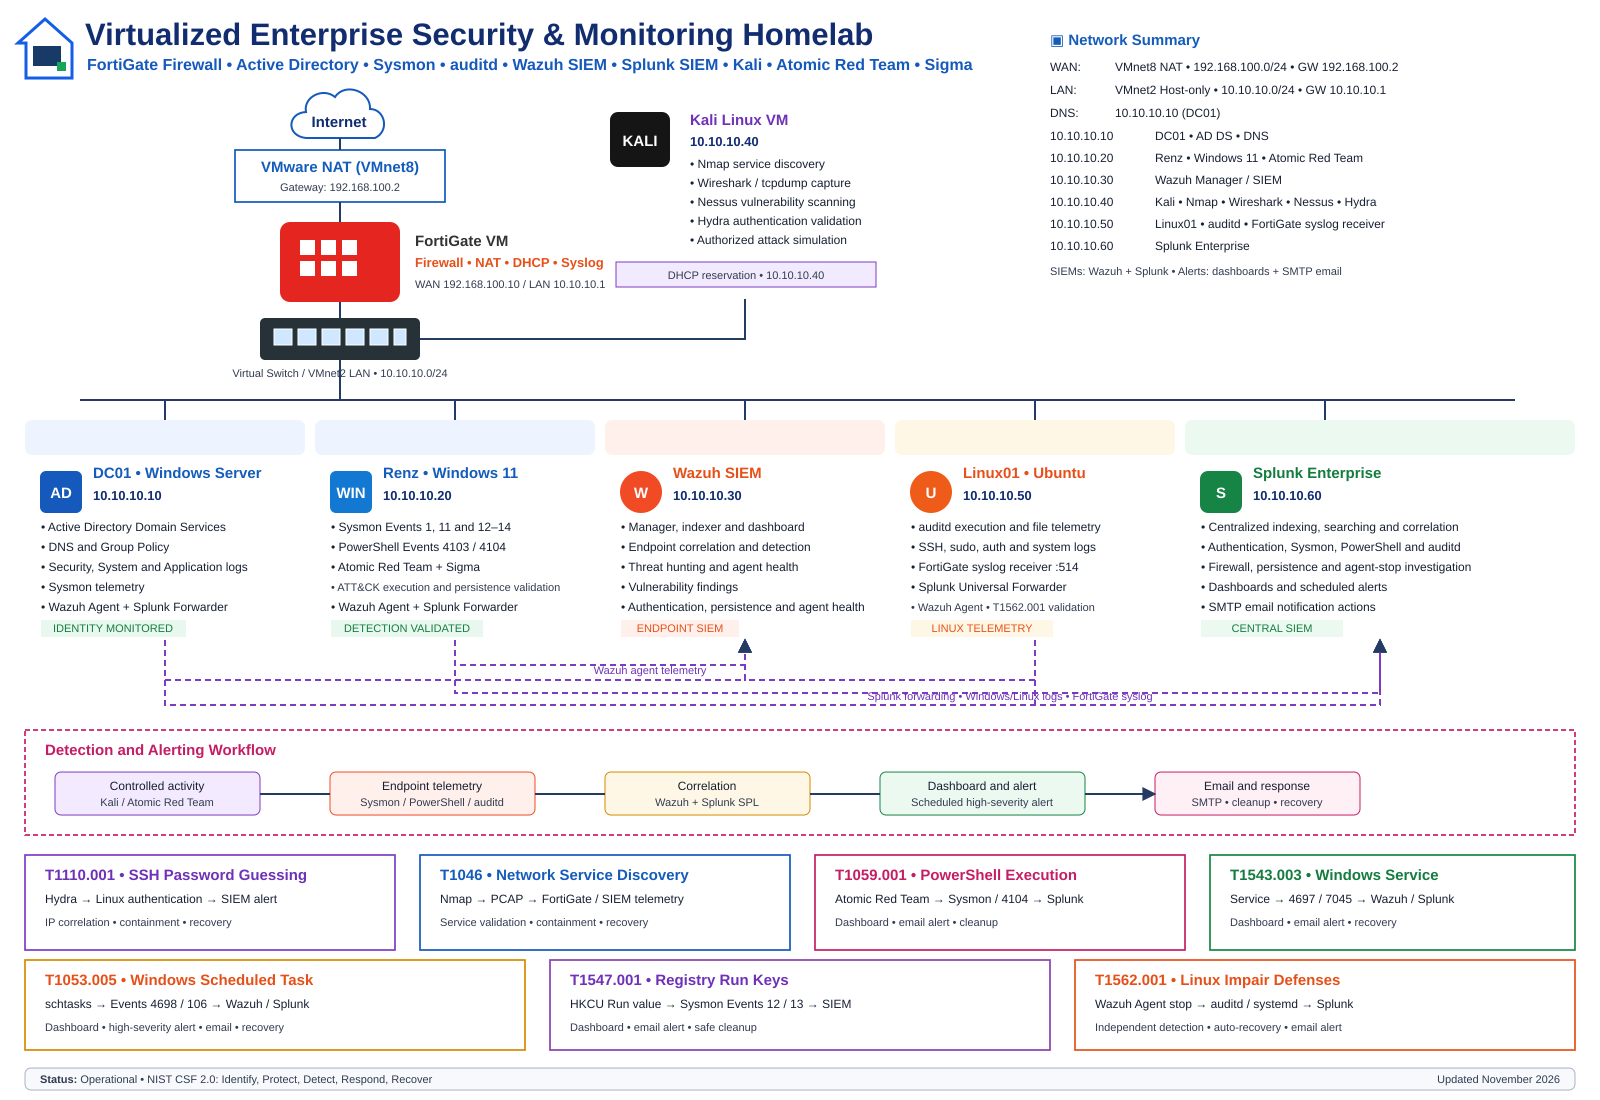
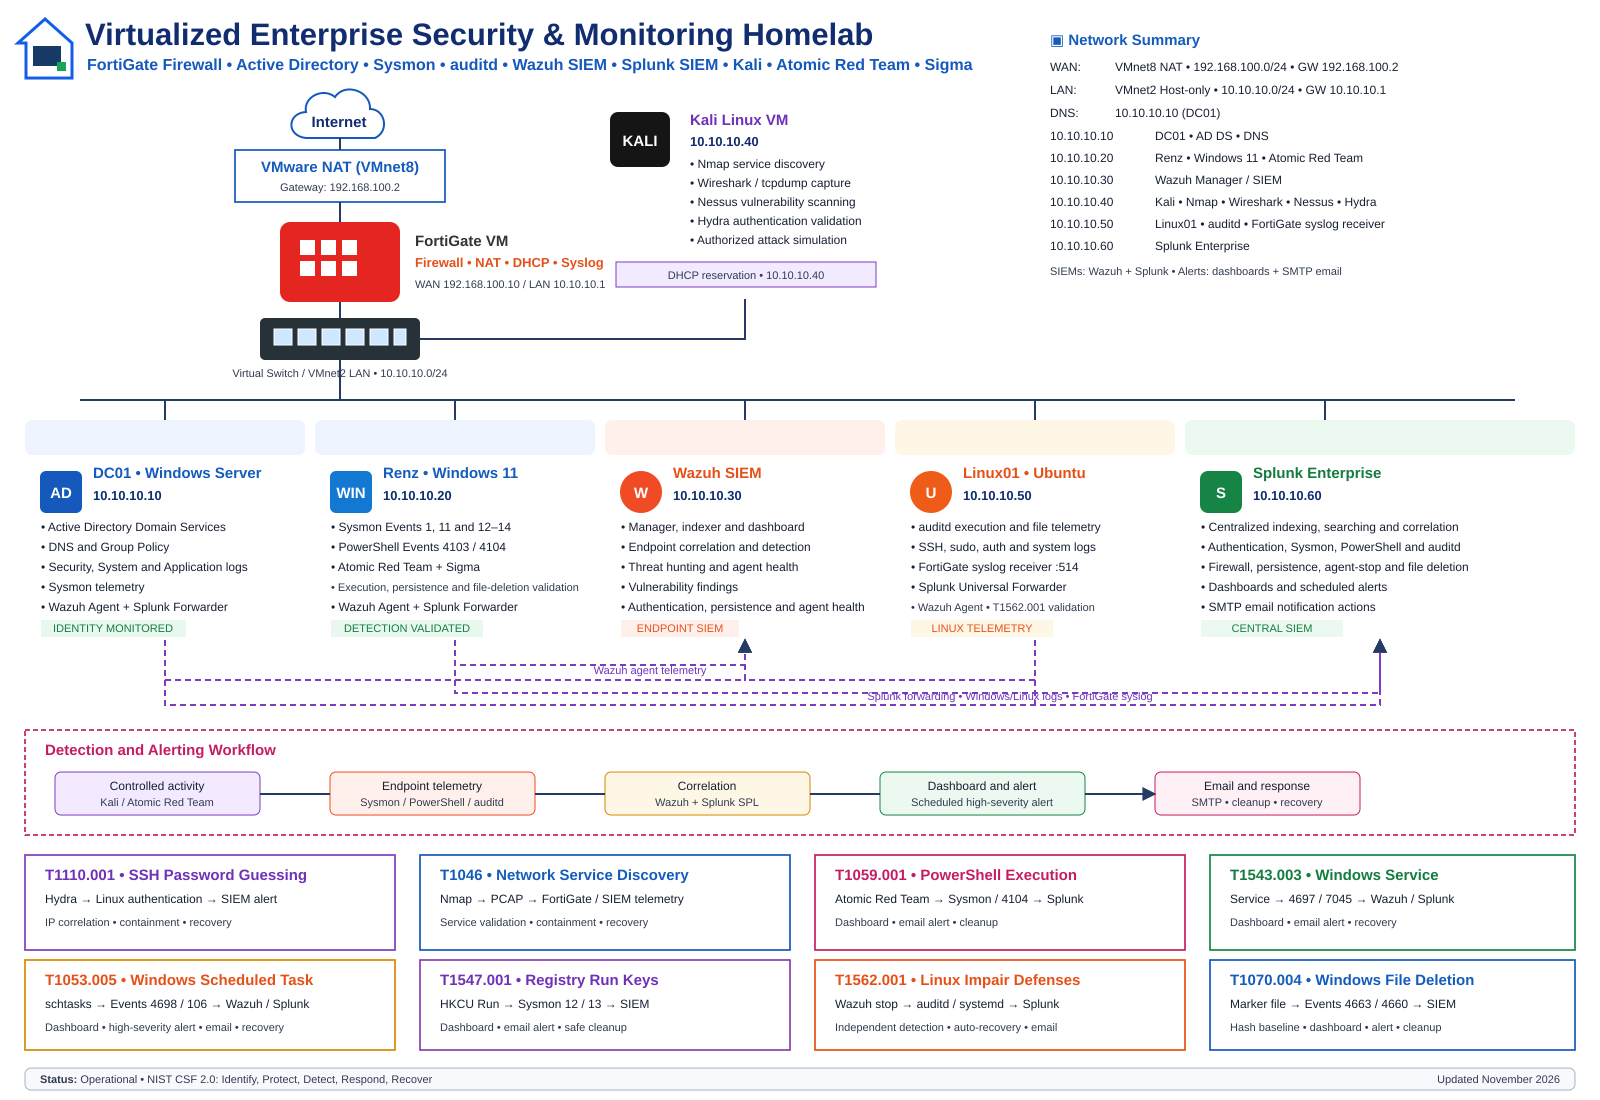
Document T1070.004 Windows file deletion validation

Changed region(s): [[0.25, 0.8655, 0.9375, 0.9582], [0.2188, 0.5255, 0.3438, 0.5564], [0.8438, 0.4945, 0.9062, 0.5255]]

diff --git a/tests/T1070-004-windows-file-deletion/NIST-MITRE-Windows-File-Deletion.md b/tests/T1070-004-windows-file-deletion/NIST-MITRE-Windows-File-Deletion.md
@@ -1,0 +1,120 @@
+# NIST–MITRE Windows File Deletion Validation
+
+## Exercise summary
+
+This authorized homelab exercise validated **MITRE ATT&CK T1070.004 — Indicator Removal: File Deletion** on the Windows 11 endpoint `Renz` (`10.10.10.20`). A harmless marker file was created in a dedicated lab directory, hashed with SHA-256, observed through Sysmon Event `11`, and then deleted in a controlled manner. Windows Security Events `4663` and `4660` provided deletion evidence, which was investigated in Wazuh and correlated in Splunk. A dashboard panel, scheduled high-severity alert and SMTP email notification completed the detection workflow.
+
+## Scope and authorization
+
+| Item | Value |
+|---|---|
+| Environment | Private VMware homelab |
+| Endpoint | Renz / Windows 11 / `10.10.10.20` |
+| Wazuh Manager | `10.10.10.30` |
+| Splunk Enterprise | `10.10.10.60` |
+| Technique | `T1070.004` — File Deletion |
+| Test object | `C:\Lab-T1070\T1070_004_marker.txt` |
+| Safety control | Dedicated folder, exact path, no wildcards and scoped audit SACL |
+
+Only a harmless marker file on an authorized virtual machine was used. No operating-system, application or user data was deleted.
+
+## Objectives
+
+1. Establish Windows and SIEM telemetry baselines.
+2. Preserve the existing Sysmon configuration when FileDelete rules are unavailable.
+3. Configure deletion auditing only for a dedicated lab folder.
+4. Record file creation, integrity and deletion evidence.
+5. Correlate the activity in Wazuh and Splunk.
+6. Trigger a dashboard, scheduled alert and email notification.
+7. Remove temporary test artifacts and validate endpoint recovery.
+
+## NIST Cybersecurity Framework 2.0 mapping
+
+| Function | Exercise activity |
+|---|---|
+| Identify | Documented the endpoint, monitored object, accounts, processes and telemetry sources. |
+| Protect | Used an isolated marker file, exact paths, a scoped SACL and a SHA-256 baseline. |
+| Detect | Correlated Sysmon Event `11` with Security Events `4663`/`4660` in Wazuh and Splunk. |
+| Respond | Triggered a high-severity Splunk alert and reviewed the account, process, object and access mask. |
+| Recover | Removed the test SACL and folder and verified monitoring-service health. |
+
+## Data sources
+
+- Windows Security log and Advanced Audit Policy
+- Sysmon Operational log
+- PowerShell Operational log
+- Wazuh Agent telemetry and Threat Hunting
+- Splunk Universal Forwarder and Splunk Enterprise
+
+## Procedure
+
+### 1. Establish baselines
+
+The operator verified the endpoint identity, address, monitoring services, Windows event channels and recent Sysmon telemetry in Splunk.
+
+### 2. Select the deletion data source
+
+The active Sysmon configuration did not contain `FileDelete` or `FileDeleteDetected` rules, and the original XML file was not retained. Rather than replace the working Sysmon configuration, Windows native Object Access auditing was used. File System auditing was enabled and a successful-deletion SACL was applied only to `C:\Lab-T1070`.
+
+### 3. Create and hash the marker
+
+The harmless file `T1070_004_marker.txt` was created with controlled text. Its metadata and SHA-256 hash were recorded before deletion. Sysmon Event `11` confirmed file creation.
+
+### 4. Perform the controlled deletion
+
+The marker was deleted using an exact literal path:
+
+```powershell
+Remove-Item -LiteralPath "C:\Lab-T1070\T1070_004_marker.txt" -Force
+```
+
+`Test-Path` returned `False`, confirming the object no longer existed.
+
+### 5. Validate local telemetry
+
+Security Event `4663` associated the marker path with the requesting account, PowerShell process and DELETE access. Related Event `4660` confirmed object-deletion activity but did not necessarily retain the filename.
+
+### 6. Investigate in Wazuh and Splunk
+
+Wazuh Threat Hunting was searched for Events `4663`/`4660`, the marker filename and access mask `0x10000`. Splunk extracted the user, process, object name, access list and access mask and mapped the result to `T1070.004`.
+
+### 7. Dashboard and alert
+
+A Splunk table panel displayed the deletion details. A scheduled alert ran every minute over a five-minute window, triggered on matching Event `4663` results, recorded the event in Triggered Alerts and sent a high-priority email notification.
+
+### 8. Cleanup and recovery
+
+The folder-specific SACL and test directory were removed. The global audit policy was left enabled to avoid overriding another security policy. Sysmon, Wazuh and the Splunk Universal Forwarder were verified as running.
+
+## Results
+
+| Control | Result |
+|---|---|
+| Controlled marker-file creation | Passed |
+| SHA-256 baseline | Passed |
+| Sysmon Event `11` creation telemetry | Passed |
+| Security Event `4663` deletion access | Passed |
+| Related Security Event `4660` review | Passed |
+| Splunk detection and dashboard | Passed |
+| Wazuh investigation | Completed; visibility depends on alert/archive indexing |
+| Scheduled alert and email | Passed |
+| Scoped cleanup and service recovery | Passed |
+
+## Key findings
+
+- Sysmon FileDelete telemetry should not be enabled by replacing an unknown working configuration; Windows Object Access auditing provided a safe alternative.
+- Event `4663` is the strongest filename-level evidence because it includes the object, account, process and DELETE access.
+- Event `4660` confirms deletion but normally requires correlation because it may omit the object name.
+- The access mask `0x10000` represents DELETE permission.
+- Wazuh results may require `wazuh-archives-*` when an event is collected but not promoted into `wazuh-alerts-*`.
+
+## Evidence
+
+The `screenshots/README.md` file defines the 18-image evidence sequence. The image files should be sanitized and uploaded into the same directory.
+
+## References
+
+- [MITRE ATT&CK T1070.004 — File Deletion](https://attack.mitre.org/techniques/T1070/004/)
+- [Microsoft Event 4663](https://learn.microsoft.com/en-us/windows/security/threat-protection/auditing/event-4663)
+- [Microsoft Event 4660](https://learn.microsoft.com/en-us/windows/security/threat-protection/auditing/event-4660)
+

diff --git a/README.md b/README.md
@@ -12,7 +12,7 @@ The environment simulates SOC monitoring, centralized telemetry, firewall admini
 |---|---:|---|
 | FortiGate VM | `10.10.10.1` | LAN gateway, DHCP, firewall, NAT and syslog source |
 | DC01 | `10.10.10.10` | Windows Server, AD DS, DNS, Sysmon, Wazuh agent and Splunk Universal Forwarder |
-| Renz | `10.10.10.20` | Windows 11 endpoint, Sysmon registry/process telemetry, PowerShell and Task Scheduler logging, Atomic Red Team, Sigma and SIEM agents |
+| Renz | `10.10.10.20` | Windows 11 endpoint, Sysmon registry/process telemetry, PowerShell, Task Scheduler and scoped file-system auditing, Atomic Red Team, Sigma and SIEM agents |
 | Wazuh | `10.10.10.30` | Manager, indexer, dashboard, correlation and endpoint alerting |
 | Kali Linux | `10.10.10.40` | Nmap, Wireshark, Nessus, Hydra and validation tooling |
 | Linux01 | `10.10.10.50` | Ubuntu telemetry host, auditd, FortiGate syslog receiver, Wazuh agent, Splunk Universal Forwarder and controlled agent-health validation |
@@ -55,6 +55,7 @@ The environment simulates SOC monitoring, centralized telemetry, firewall admini
 - Windows service-installation monitoring
 - Windows scheduled-task creation and deletion monitoring
 - Windows Registry Run-key persistence monitoring
+- Windows file creation and deletion monitoring through Sysmon Event `11` and Security Events `4663`/`4660`
 - Linux sudo, SSH, execution and file-deletion activity
 - Linux security-agent interruption and recovery monitoring
 - FortiGate denied and local-in traffic analysis
@@ -71,6 +72,7 @@ The environment simulates SOC monitoring, centralized telemetry, firewall admini
 - Validated scheduled-task activity through Security Events `4698`/`4699`, Task Scheduler Events `106`/`141` and Sysmon process creation
 - Validated Registry Run-key persistence through Sysmon Events `12` and `13`, Wazuh threat hunting and Splunk correlation
 - Validated Linux defense impairment by stopping the Wazuh Agent while auditd and Splunk remained active, then verifying automated recovery
+- Validated controlled Windows file deletion using a SHA-256 baseline, scoped Object Access auditing, Security Events `4663`/`4660`, Wazuh review and Splunk correlation
 - Built Splunk investigations, dashboards, scheduled alerts and email notifications
 - Documented cleanup, containment, recovery and lessons learned
 
@@ -85,6 +87,7 @@ The environment simulates SOC monitoring, centralized telemetry, firewall admini
 | [Windows Scheduled Task](tests/T1053-005-windows-scheduled-task/NIST-MITRE-Windows-Scheduled-Task.md) | `T1053.005` | Controlled task creation, Events 4698/106, Sysmon, Wazuh, Splunk dashboard, high-severity alert, email and recovery |
 | [Registry Run Keys](tests/T1547-001-registry-run-keys/NIST-MITRE-Registry-Run-Keys.md) | `T1547.001` | Controlled HKCU Run-value creation, Sysmon Events 12/13, Wazuh, Splunk dashboard, high-severity alert, email and recovery |
 | [Linux Impair Defenses](tests/T1562-001-impair-defenses/NIST-MITRE-Linux-Impair-Defenses.md) | `T1562.001` | Controlled Wazuh Agent interruption, systemd and auditd evidence, independent Splunk detection, alert, email and recovery |
+| [Windows File Deletion](tests/T1070-004-windows-file-deletion/NIST-MITRE-Windows-File-Deletion.md) | `T1070.004` | Controlled marker-file deletion, SHA-256 baseline, Events 4663/4660, Wazuh investigation, Splunk dashboard, alert, email and cleanup |
 
 ## Completed response workflows
 
@@ -148,6 +151,16 @@ The environment simulates SOC monitoring, centralized telemetry, firewall admini
 5. Documented that Wazuh could not reliably report its own stop command while impaired, demonstrating the value of independent telemetry.
 6. Added a Splunk dashboard panel, high-severity alert and SMTP notification.
 7. Verified Wazuh reconnection, SIEM connectivity, enabled services and the absence of failed systemd units.
+
+### Windows file deletion
+
+1. Established Windows endpoint, monitoring-service, event-channel and Splunk telemetry baselines.
+2. Confirmed the active Sysmon configuration did not include FileDelete rules and preserved the existing configuration.
+3. Enabled Windows File System auditing and applied a deletion SACL only to `C:\Lab-T1070`.
+4. Created a harmless marker file, recorded its SHA-256 hash and confirmed Sysmon Event `11` for file creation.
+5. Deleted only the marker file and validated Security Event `4663` with DELETE access and related Event `4660` activity.
+6. Investigated the event in Wazuh and Splunk, then added a dashboard panel, high-severity scheduled alert and SMTP notification.
+7. Removed the temporary SACL and test folder and verified Sysmon, Wazuh and the Splunk Forwarder remained healthy.
 
 ## Documentation
 
@@ -220,13 +233,19 @@ The environment simulates SOC monitoring, centralized telemetry, firewall admini
     │   └── screenshots/
     │       ├── README.md
     │       └── 15 evidence screenshots
-    └── T1562-001-impair-defenses/
+    ├── T1562-001-impair-defenses/
         ├── NIST-MITRE-Linux-Impair-Defenses.md
         ├── splunk-searches.spl
         ├── wazuh-queries.txt
         └── screenshots/
             ├── README.md
             └── 14 evidence screenshots
+    └── T1070-004-windows-file-deletion/
+        ├── NIST-MITRE-Windows-File-Deletion.md
+        ├── splunk-searches.spl
+        ├── wazuh-queries.txt
+        └── screenshots/
+            └── README.md
 ```
 
 ## Evidence standards
@@ -246,6 +265,7 @@ Only sanitized evidence is published. Passwords, application passwords, API toke
 - Windows scheduled-task persistence detection
 - Windows Registry Run-key persistence detection
 - Linux security-agent impairment, independent detection and recovery validation
+- Windows Object Access auditing and controlled file-deletion detection
 - NIST CSF 2.0 and MITRE ATT&CK mapping
 - Vulnerability assessment and packet analysis
 - Incident containment, recovery and technical documentation

diff --git a/tests/T1070-004-windows-file-deletion/screenshots/README.md b/tests/T1070-004-windows-file-deletion/screenshots/README.md
@@ -1,0 +1,32 @@
+# T1070.004 Evidence Index
+
+Upload the sanitized screenshots below to this directory.
+
+| File | Evidence shown |
+|---|---|
+| `01-windows-endpoint-identity.png` | Windows 11 endpoint identity and address. |
+| `02-monitoring-services-baseline.png` | Sysmon, Wazuh and Splunk Forwarder service baseline. |
+| `03-event-channels-baseline.png` | Sysmon and PowerShell Operational channels enabled. |
+| `04-local-sysmon-baseline.png` | Recent local Sysmon activity. |
+| `05-splunk-sysmon-baseline.png` | Sysmon telemetry received by Splunk. |
+| `06-windows-file-auditing-config.png` | File System audit policy and scoped deletion SACL. |
+| `07-test-file-created.png` | Harmless marker-file creation and metadata. |
+| `08-test-file-hash-baseline.png` | SHA-256 integrity baseline and existing-file confirmation. |
+| `09-sysmon-file-create-event-11.png` | Sysmon Event `11` for the marker. |
+| `10-controlled-file-deletion.png` | Exact-path deletion, timestamp and `Test-Path=False`. |
+| `11-local-security-file-deletion-events.png` | Local Security Event `4663` and related `4660` activity. |
+| `12-splunk-t1070-004-detection.png` | Splunk correlation of the user, process, object and DELETE access. |
+| `13-wazuh-t1070-004-investigation.png` | Wazuh investigation or documented alert-index visibility gap. |
+| `14-splunk-t1070-004-dashboard.png` | T1070.004 dashboard panel. |
+| `15-splunk-t1070-004-alert-config.png` | Scheduled high-severity alert and actions. |
+| `16-splunk-t1070-004-alert-triggered.png` | Triggered-alert record. |
+| `17-t1070-004-email-alert.png` | SMTP notification received. |
+| `18-endpoint-recovery-validated.png` | Test artifacts removed and monitoring services healthy. |
+
+## Publication checklist
+
+- Redact passwords, application passwords, tokens, cookies and unrelated personal information.
+- Confirm that the screenshots are PNG files with the exact names above.
+- Do not append duplicate extensions such as `.png.png`.
+- Keep the full query, time range and important result columns visible where applicable.
+
